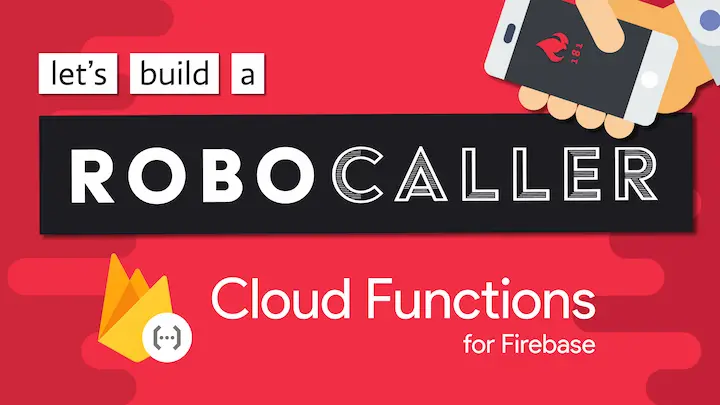
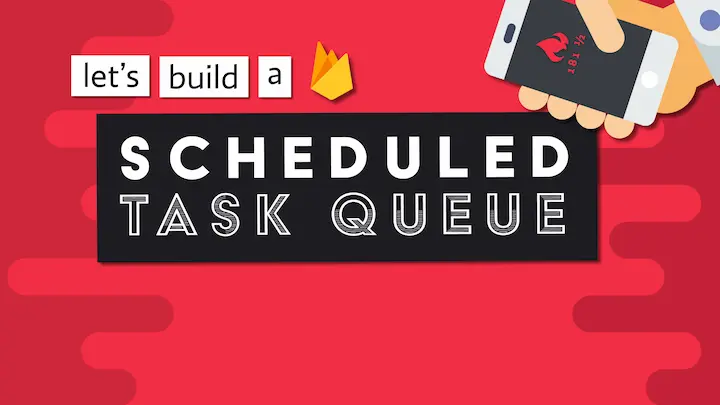
content: robocaller changes

diff --git a/hugo/content/lessons/cloud-functions-scheduled-time-trigger/index.md b/hugo/content/lessons/cloud-functions-scheduled-time-trigger/index.md
@@ -8,10 +8,9 @@ description: Trigger Cloud Functions based on cron time intervals and create a t
 tags: 
     - cloud-functions
     - pubsub
-    - twilio
     - firebase
 
-youtube: m1ne8ikfofw
+youtube: h79xrJZAQ6I
 github: https://github.com/fireship-io/181-cloud-functions-task-queue
 # disable_toc: true
 # disable_qna: true
@@ -32,11 +31,11 @@ Scheduling a function on a static time interval is straight forward, but what if
 - allow users to customize times for transactional email delivery
 - schedule push notifications or similar alerts dynamically
 - enqueue background jobs to run at specific times
-- build robocallers with Twilio 🤣 - please don't
+- build robocallers 🤣 - please don't
 
 ## Basic Scheduled Function
 
-Let's start by scheduling a basic function. This function will simply write to the Firestore database every five minutes. 
+Let's start by looking at an example of a basic cron-scheduled Cloud Function. 
 
 Make sure you have the latest version of [firebase-tools](https://firebase.google.com/docs/cli/) (or at least version 6.7) installed on your system, then initialize a new project. 
 
@@ -69,6 +68,9 @@ export const everyFiveMinuteJob = functions.pubsub
 ## Dynamic Task Queue
 
 Our task queue or job queue is simply a Firestore collection that will be queried by a Pub/Sub Cloud Function every 60 seconds. If the current time is greater than the *performAt* time of a task, then we execute it. 
+
+{{< figure src="img/task-queue-firebase.png" caption="The task queue query expired tasks on each tick, then execute the business logic associated with the task worker field" >}}
+
 
 ### Step 1: Data Model for Background Jobs
 
@@ -170,49 +172,10 @@ const workers: Workers = {
 }
 {{< /highlight >}}
 
-### Step 4 (Optional): Twilio Robocaller 🤖
 
-If you've been following along with the video you might want to build a robocaller for yourself using [Twilio's Voice API](https://www.twilio.com/docs/voice/quickstart/node#install-nodejs-and-the-twilio-nodejs-module). First, sign up for a free Twilio account and make a note of your automatically assigned phone number and API keys. Set them in your Cloud Functions environment and install the Twilio Node Client using the commands below: 
+Run `firebase deploy --only functions`. 
 
-{{< file "terminal" "command line" >}}
-{{< highlight terminal >}}
-firebase functions:config:set twilio.sid="your SID" twilio.auth_token="your auth token"
-
-cd functions
-npm install twilio
-{{< /highlight >}}
-
-Now define the business logic for the robocaller - the Twilio Node Client does all the heavy lifting, we just need to pass in the phone numbers and optional script URL. 
-
-{{< file "typescript" "functions/src/index.ts" >}}
-{{< highlight typescript >}}
-const { sid, auth_token } = functions.config().twilio;
-import * as twilio from 'twilio';
-
-const robocaller = twilio(sid, auth_token);
-
-// ...
-
-const workers: Workers = {
-    helloWorld: () => db.collection('logs').add({ hello: 'world' }),
-
-    makeCall: async ({ phoneNumber }) => {
-        const call = await robocaller.calls.create({
-            to: phoneNumber,
-            from: '+1........',
-            url: 'https://lessonapp.page.link/nM9x',
-            method: 'GET'
-          });
-      
-          console.log(call.toJSON());
-      
-          return call.sid;
-    }
-}
-{{< /highlight >}}
-
-
-Run `firebase deploy --only functions`. After the function is deployed we just need to create a task document and Firestore that points the *makeCall* worker and the robocaller will do its magic at the specified time. 
+After the function is deployed we just need to create a task document in Firestore that points the `helloWorld` worker. Within 1 minute you should see the task document update to *complete* 
 
 
 
